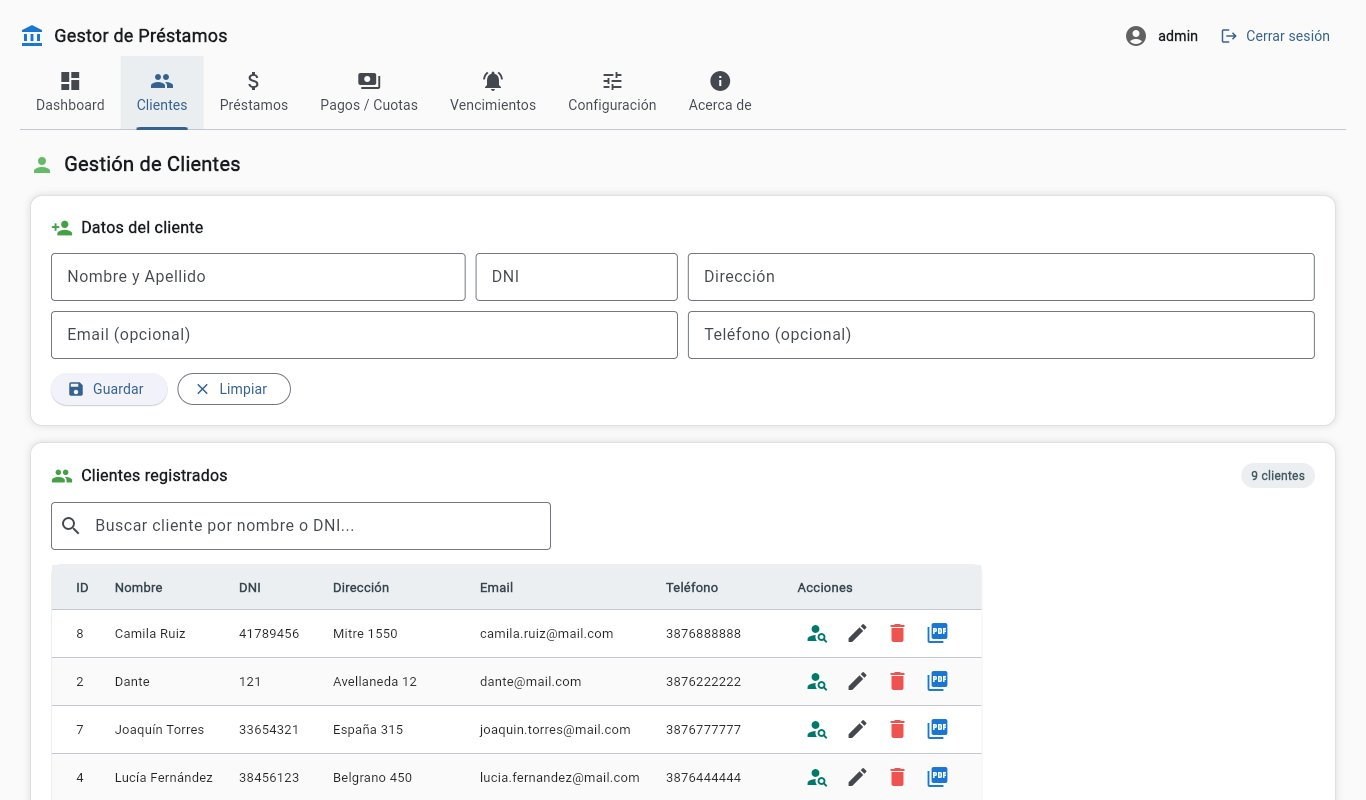
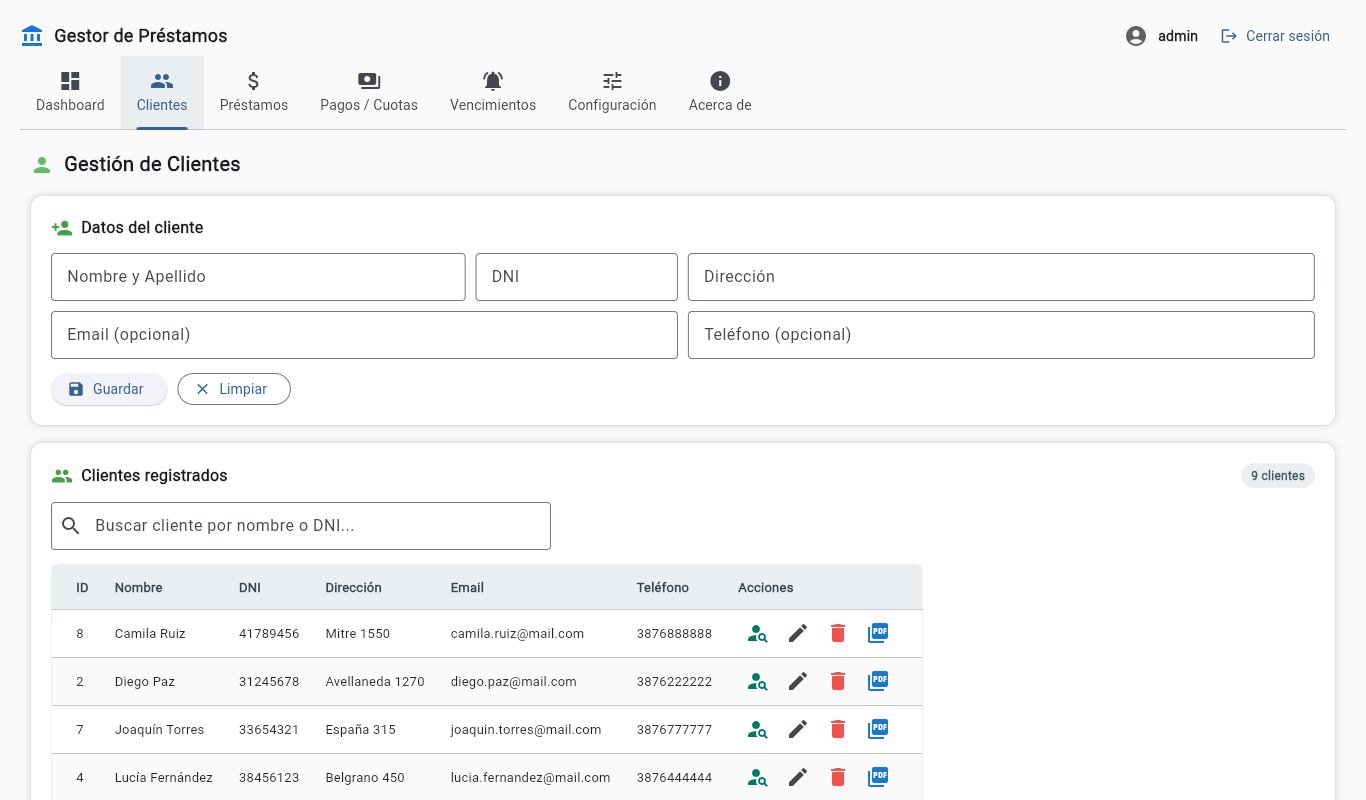
Gestor de Préstamos: capturas nuevas con datos de ejemplo

diff --git a/index.html b/index.html
@@ -514,7 +514,7 @@
             <div class="proyecto-galeria">
                 <img class="captura" src="img/prestamos-clientes.jpg" alt="Gestión de clientes con formulario y listado" loading="lazy">
                 <img class="captura" src="img/prestamos-prestamos.jpg" alt="Alta de préstamos y listado con estado de cada uno" loading="lazy">
-                <img class="captura" src="img/prestamos-cuotas.jpg" alt="Préstamos pendientes con cuotas vencidas" loading="lazy">
+                <img class="captura" src="img/prestamos-vencimientos.jpg" alt="Vencimientos con recargo por mora y aviso por WhatsApp" loading="lazy">
             </div>
 
         </article>
